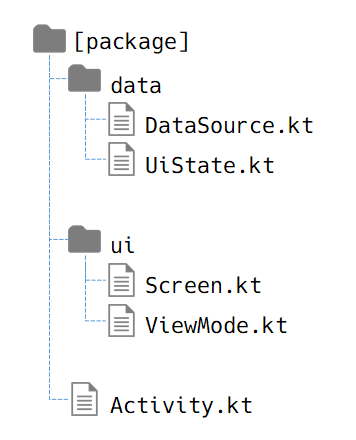
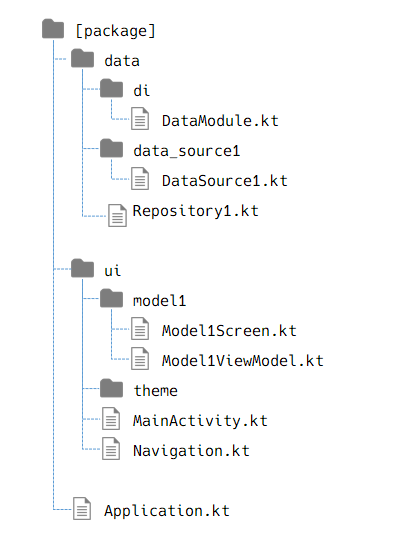
20241027

Changed region(s): [[0.0927, 0.0295, 0.8034, 0.975], [0.8034, 0.2659, 0.8961, 0.2955]]

diff --git a/2024/10/20241027-and.md b/2024/10/20241027-and.md
@@ -1,0 +1,36 @@
+# android: データレイヤーとBLE
+
+<i>2024/10/27</i>
+
+BLE機器操作について、あとは Repository と Data source を何とかすれば終わりだろう、と軽く考えていたのだが、
+まったくイメージが沸かないことに気付く。。。
+
+Codelabs をやろう。
+
+* [データレイヤ  -  Android Developers](https://developer.android.com/topic/architecture/data-layer?hl=ja)
+* [リポジトリと手動 DI を追加する](https://developer.android.com/codelabs/basic-android-kotlin-compose-add-repository?hl=ja&continue=https%3A%2F%2Fdeveloper.android.com%2Fcourses%2Fpathways%2Fandroid-basics-compose-unit-5-pathway-2%3Fhl%3Dja%23codelab-https%3A%2F%2Fdeveloper.android.com%2Fcodelabs%2Fbasic-android-kotlin-compose-add-repository#0)
+
+* `model.MarsPhoto`という`data class`が既にある
+* `data.MarsPhotosRepository`というインターフェース
+  * それを継承した`data.NetworkMarsPhotosRepository`というクラス
+* Repositoryでは`suspend`メソッドにする
+
+BLEの場合、スキャンを開始すると OS が非同期でデバイス情報を返してくる。  
+ViewModel でやっていたときは `StateFlow` を使っていたが Repository の場合はどうするとよいのだろうか？  
+しばしばそういう場合がありそうに思うが、思いつかないのでこれもコールバック方式にする。
+
+* OS -(callback)-> `BleScan`
+  * -(callback)-> `Repository`
+  * -(callback)-> `ViewModel`
+  * -(StateFlow)-> UI
+
+[データレイヤーはsuspend関数](https://developer.android.com/topic/architecture/data-layer?hl=ja#expose-apis)と書いてあるがコールバックにしたので外した。  
+「Javaの場合はコールバックなど」とあったので、Kotlin だとあまりやらない方法なのかもしれない。
+
+[LedControlRepositoryのDI](https://github.com/hirokuma/android-ble-led-control/blob/66025fd851fbf7c3177f101ab5d557bb8dd7bd2a/app/src/main/java/work/hirokuma/bleledcontrol/data/di/BleScan.kt#L26-L32)で`BleScan`を引数にしつつ、`BleScan`もDIで解決するやり方を`@Provides`で書くことができなかった。  
+どうやるとよいのだろう？  
+今回は `@Binds` で回避したのだが、できると思うのだよねぇ。
+
+今日はここまで。
+
+* [commit - Repository](https://github.com/hirokuma/android-ble-led-control/commit/66025fd851fbf7c3177f101ab5d557bb8dd7bd2a)

diff --git a/index.md b/index.md
@@ -4,6 +4,7 @@
 
 * 2024
   * October
+    * 10/27 [android: データレイヤーとBLE](2024/10/20241027-and.md)
     * 10/25 [android: リストで無効なアイテムの色](2024/10/20241025-and2.md)
     * 10/25 [android: Hilt対応](2024/10/20241025-and.md)
     * 10/24 [android: DI をもう少し理解したい](2024/10/20241024-di.md)
